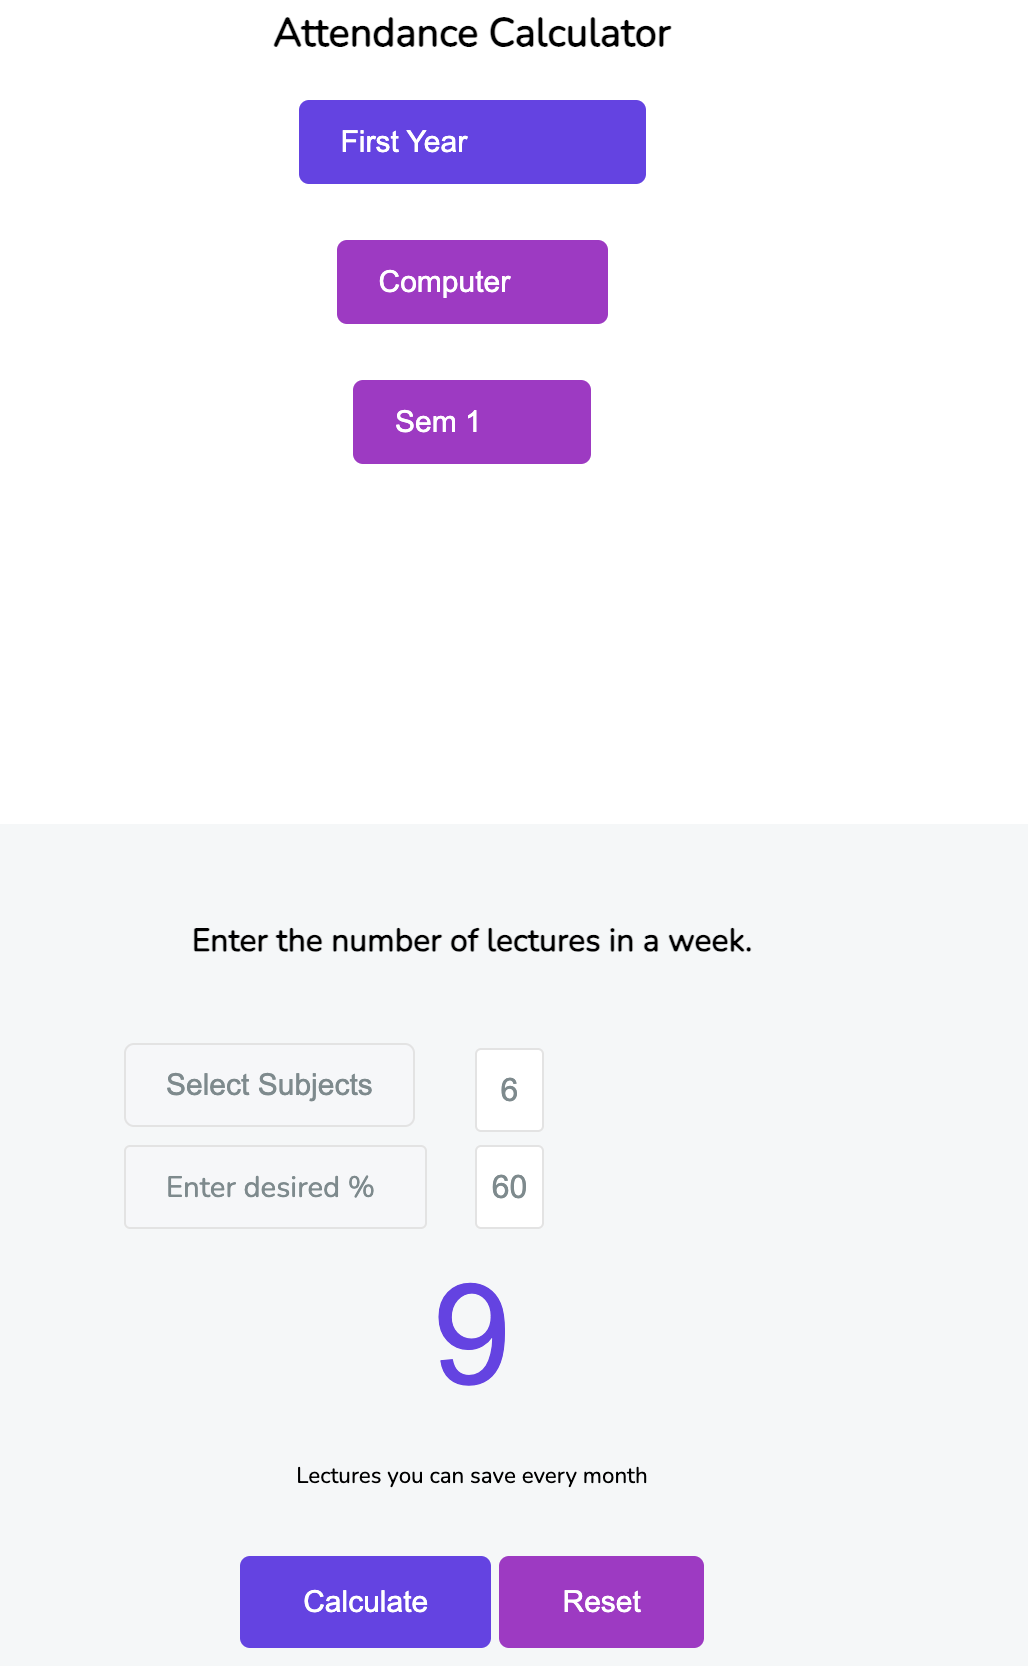
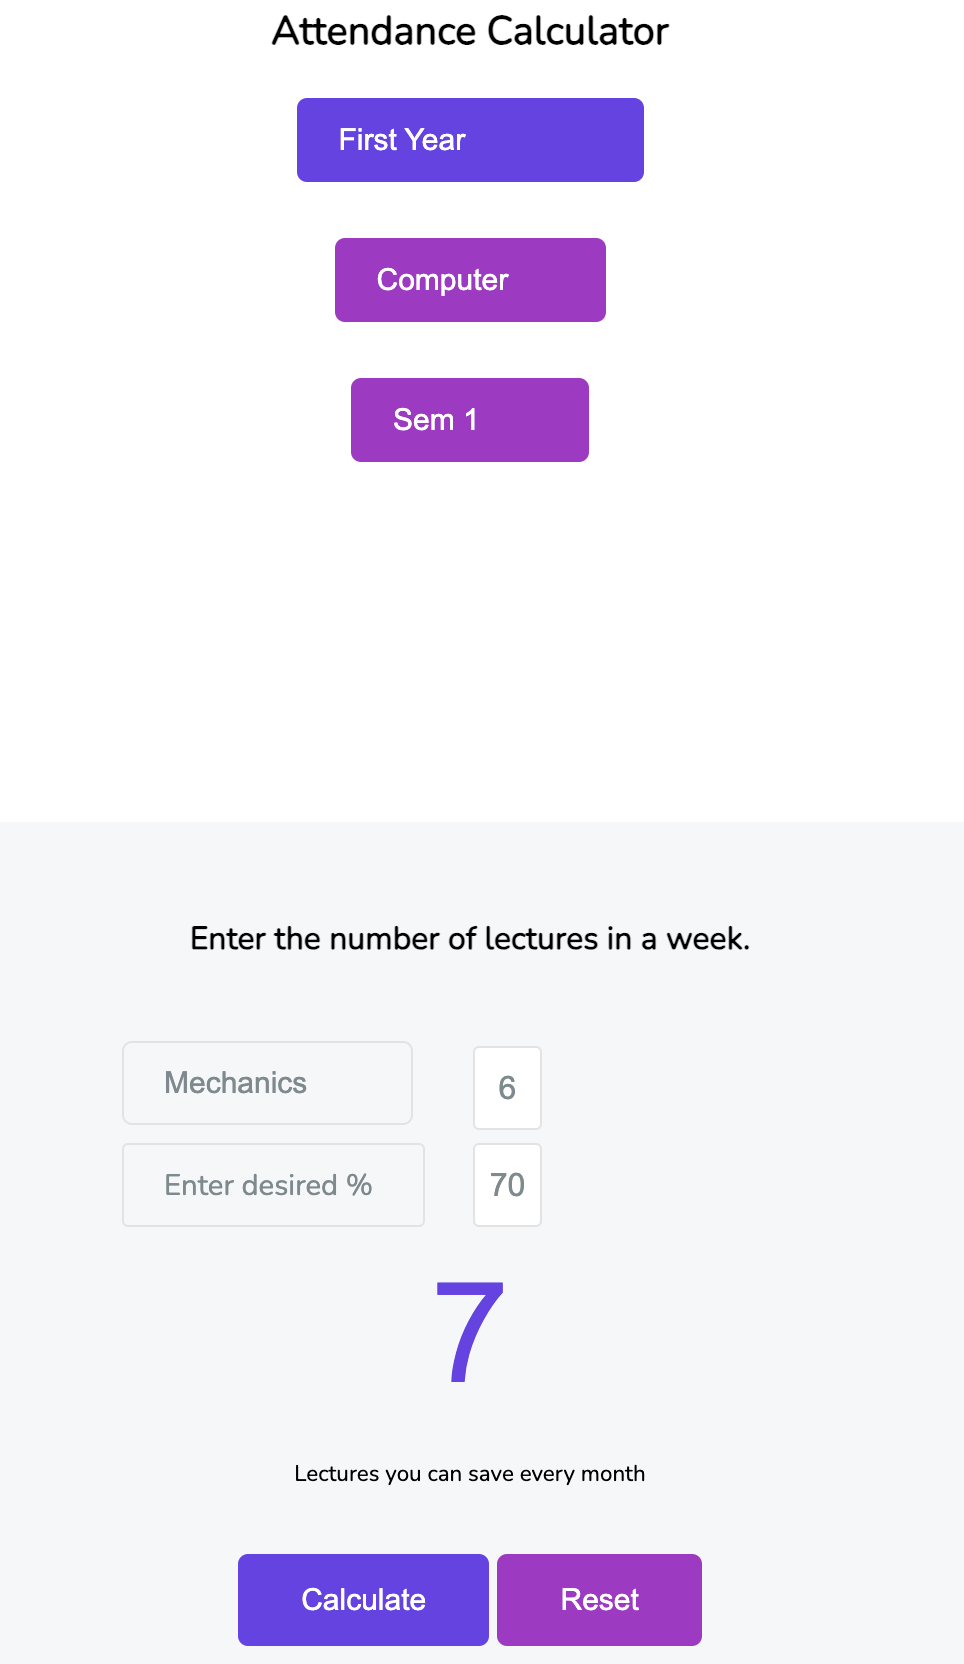
readme

diff --git a/README.md b/README.md
@@ -1,0 +1,22 @@
+# Attendance Planner
+This repository contains a web application built using HTML, CSS, and JavaScript specifically designed for brainheaters.in. The Attendance Planner allows users to calculate the number of lectures they cannot attend in a given month in order to achieve a desired percentage of attendance. The application provides a user-friendly interface to input the necessary information, including the year, subject, number of lectures per week, and the desired attendance percentage.
+
+## Functionality
+The Attendance Planner provides the following functionality:
+
+- Selection of Year and Subject: Users can choose the specific year and subject for which they want to calculate the required number of lectures.
+
+- Number of Lectures per Week: Users can input the number of lectures scheduled per week for the selected year and subject.
+
+- Desired Attendance Percentage: Users can specify the desired attendance percentage they aim to achieve for the given month.
+
+- Calculation of Required Lectures: Based on the provided inputs, the application calculates the number of lectures the user cannot attend in order to achieve the desired attendance percentage.
+
+## Usage
+To use the Attendance Planner web application, visit the website brainheaters.in. Once on the website, navigate to the Attendance Planner section. You will be presented with an interface where you can select the year, subject, number of lectures per week, and desired attendance percentage. After providing the necessary inputs, the application will calculate the required number of lectures for you.
+
+Please refer to the code provided in this repository for further information on how to use and implement the Attendance Planner web application.
+
+## User-interface
+<img src="Screenshot1.png" alt="Screen 1" title="Screen 1" width="600" height="600">
+<img src="Screenshot2.png" alt="Screen 2" title="Screen 2" width="600" height="600">
